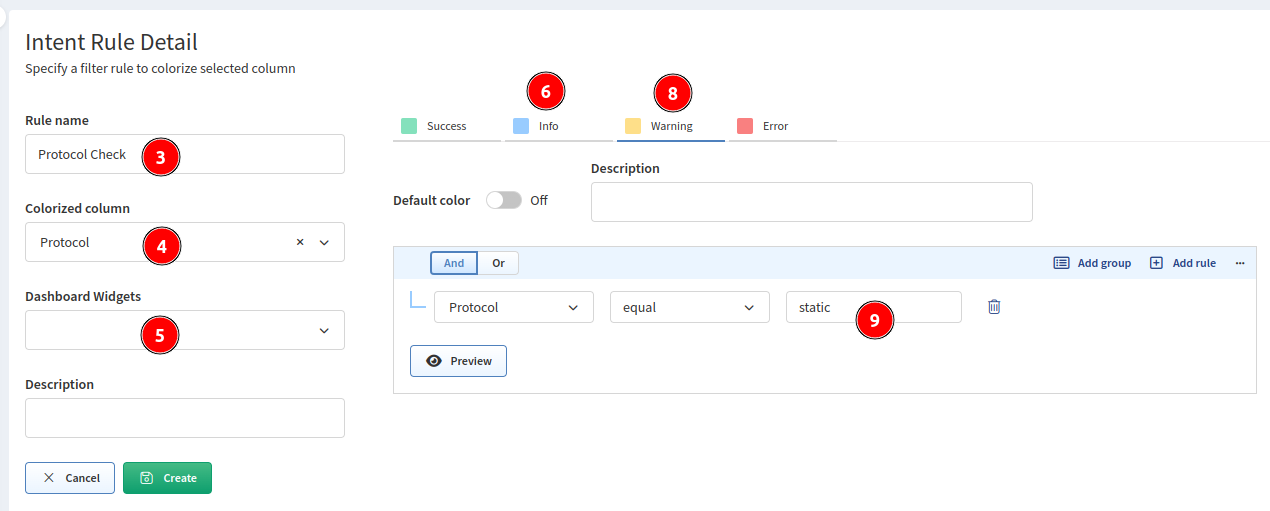
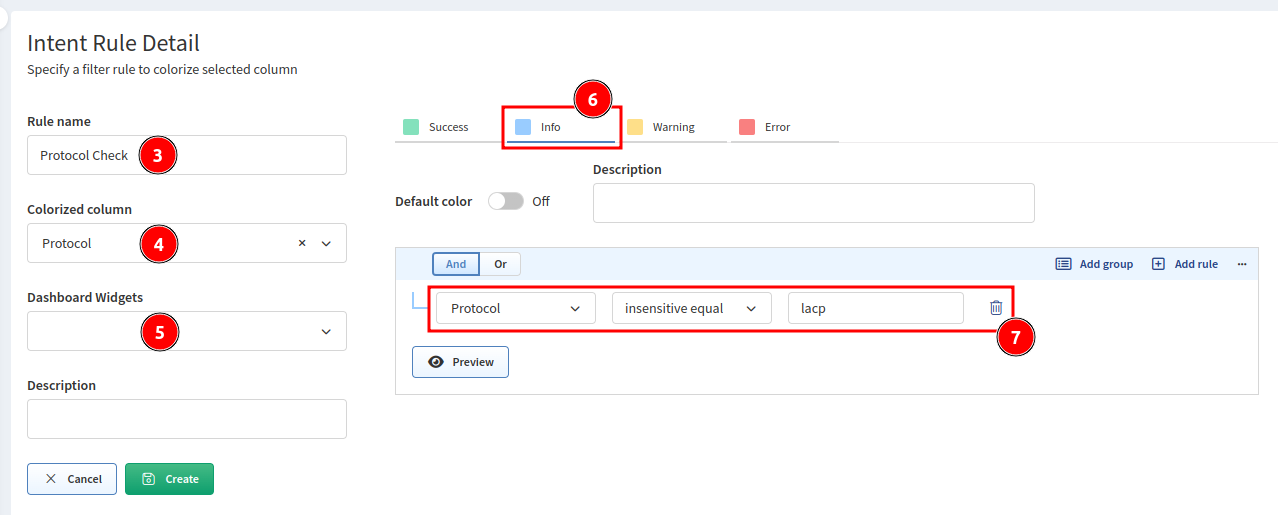
ST-198 Use 3 images (instead of 2) to illustrate 'Create Intent Verification Rule' steps

diff --git a/docs/IP_Fabric_GUI/tips/intent_rules.md b/docs/IP_Fabric_GUI/tips/intent_rules.md
@@ -58,7 +58,8 @@ Aggregation (LAG)/Portchannel/Etherchannel Member status table**:
 5. Leave **Dashboard Widgets** empty for now.
 6. Click the **blue color**.
 7. Create a rule "`Protocol` insensitive equal `lacp`".
+   ![Create intent verification rule](intent_rules/create_intent_verification_rule.png)
 8. Click the **yellow color**.
 9. Create a rule "`Protocol` equal `static`".
 10. Click **Create**.  
-    ![Create intent verification rule](intent_rules/create_intent_verification_rule.png)
+    ![Create intent verification rule - remaining steps](intent_rules/create_intent_verification_rule_2.png)
